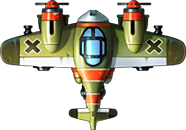
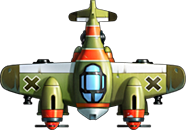
shoot update

diff --git a/main.js b/main.js
@@ -47,7 +47,7 @@ export default class Main
   enemyGenerate() {
       if (databus.frame % 30 === 0) {
           let enemy = databus.pool.getItemByClass('enemy', Enemy);
-          enemy.init(6);
+          enemy.init(4);
           databus.enemys.push(enemy);
       }
   }

diff --git a/enemy.js b/enemy.js
@@ -5,7 +5,7 @@
 import Animation from 'base/animation';
 import DataBus from 'databus';
 
-const ENEMY_IMG_SRC = 'images/enemy.png';
+const ENEMY_IMG_SRC = 'images/hero.png';
 const ENEMY_WIDTH   = 60;
 const ENEMY_HEIGHT  = 60;
 
